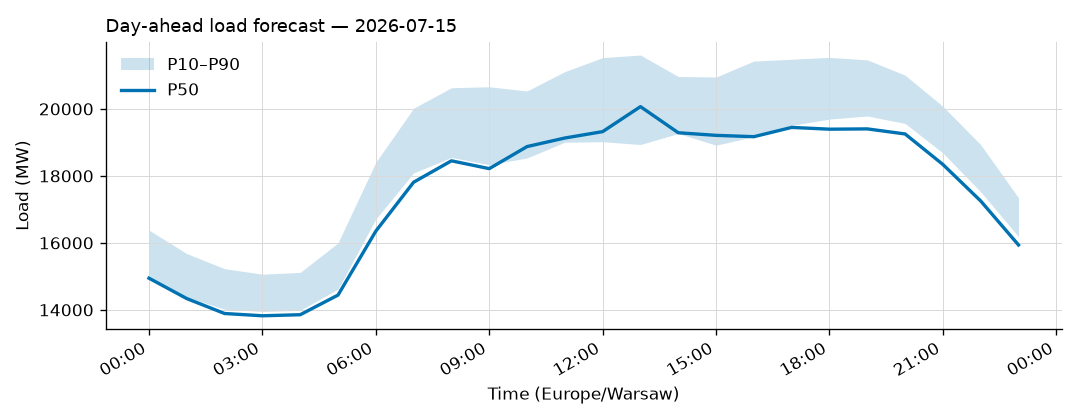
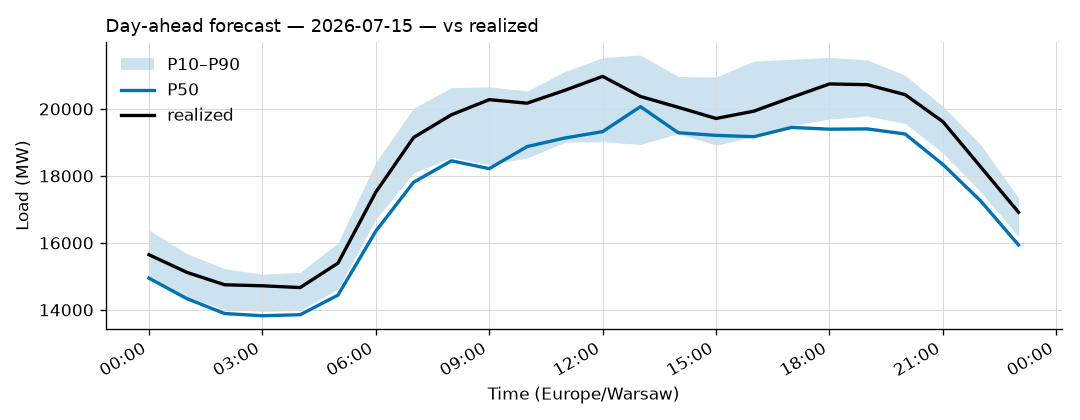
feat: living daily figures — every forecast chart gains the realized line next morning
- plot_forecast_band: optional realized overlay + unit param; one chart
  per TARGET day. Published band-only, re-rendered with actuals by the
  next morning's run — old reports' images update in place.
- load: yesterday's chart re-rendered with realized load; shown in
  today's report under the Yesterday table
- price: same convention (price_<date>.png), replaces the two-panel
- README: 'rolling is not recursive' clarification — independent
  day-ahead forecasts, moving average only, no error accumulation
- live-tested: full daily run, all three figures verified

diff --git a/src/viz/plots.py b/src/viz/plots.py
@@ -61,8 +61,19 @@ def plot_load_vs_tso(load: pd.Series, tso: pd.Series | None, out: Path) -> Path:
     return _finish(fig, out)
 
 
-def plot_forecast_band(forecast: pd.DataFrame, target_date: str, out: Path) -> Path:
-    """Fan chart: P50 line, P10–P90 band. Displayed in local time."""
+def plot_forecast_band(
+    forecast: pd.DataFrame,
+    target_date: str,
+    out: Path,
+    actual: pd.Series | None = None,
+    unit: str = "Load (MW)",
+) -> Path:
+    """Fan chart: P50 line, P10-P90 band. Displayed in local time.
+
+    Living figure: published with the band only; the morning after the
+    target day, the daily run re-renders it WITH the realized series so
+    every report's chart eventually shows forecast vs reality.
+    """
     apply_style()
     local = forecast.tz_convert(LOCAL_TZ)
     fig, ax = plt.subplots(figsize=(9, 3.5))
@@ -71,9 +82,14 @@ def plot_forecast_band(forecast: pd.DataFrame, target_date: str, out: Path) -> P
         color=BLUE, alpha=BAND_ALPHA, linewidth=0, label="P10–P90",
     )
     ax.plot(local.index, local["p50"], color=BLUE, label="P50")
-    ax.set_ylabel("Load (MW)")
+    title = f"Day-ahead forecast — {target_date}"
+    if actual is not None:
+        act = actual.tz_convert(LOCAL_TZ)
+        ax.plot(act.index, act.values, color="black", linewidth=2.0, label="realized")
+        title += " — vs realized"
+    ax.set_ylabel(unit)
     ax.set_xlabel(f"Time ({LOCAL_TZ})")
-    ax.set_title(f"Day-ahead load forecast — {target_date}", loc="left")
+    ax.set_title(title, loc="left")
     ax.xaxis.set_major_formatter(mdates.DateFormatter("%H:%M", tz=local.index.tz))
     ax.legend(frameon=False)
     return _finish(fig, out)
@@ -143,47 +159,4 @@ def plot_res_forecast(res: pd.DataFrame, out: Path) -> Path:
     ax.set_xlabel("Time (UTC)")
     ax.set_title("PL wind + solar day-ahead forecast (ENTSO-E 14.1.D)", loc="left")
     ax.legend(frameon=False)
-    return _finish(fig, out)
-
-
-def plot_price_daily(
-    fc_yesterday: pd.DataFrame | None,
-    realized: pd.Series,
-    fc_tomorrow: pd.DataFrame,
-    yesterday: str,
-    tomorrow: str,
-    out: Path,
-) -> Path:
-    """Daily price panel: yesterday's forecast vs REALIZED price + tomorrow.
-
-    Left: did yesterday's band contain reality? The next-day evaluation
-    every desk does first thing in the morning.
-    Right: tomorrow's published forecast.
-    """
-    apply_style()
-    fig, (ax1, ax2) = plt.subplots(1, 2, figsize=(10, 3.8), sharey=True)
-
-    if fc_yesterday is not None:
-        loc_y = fc_yesterday.tz_convert(LOCAL_TZ)
-        h = loc_y.index.hour + loc_y.index.minute / 60
-        ax1.fill_between(h, loc_y["p10"], loc_y["p90"], color=BLUE,
-                         alpha=BAND_ALPHA, linewidth=0, label="P10–P90")
-        ax1.plot(h, loc_y["p50"], color=BLUE, label="forecast P50")
-    real_loc = realized.tz_convert(LOCAL_TZ)
-    h_r = real_loc.index.hour + real_loc.index.minute / 60
-    ax1.plot(h_r, real_loc.values, color="black", linewidth=2.0, label="realized")
-    ax1.set_title(f"Yesterday {yesterday} — forecast vs realized", loc="left")
-    ax1.set_ylabel("Price (EUR/MWh)")
-    ax1.legend(frameon=False, fontsize=8)
-
-    loc_t = fc_tomorrow.tz_convert(LOCAL_TZ)
-    h_t = loc_t.index.hour + loc_t.index.minute / 60
-    ax2.fill_between(h_t, loc_t["p10"], loc_t["p90"], color=BLUE,
-                     alpha=BAND_ALPHA, linewidth=0)
-    ax2.plot(h_t, loc_t["p50"], color=BLUE)
-    ax2.set_title(f"Tomorrow {tomorrow} — LEAR forecast", loc="left")
-
-    for ax in (ax1, ax2):
-        ax.set_xticks(range(0, 24, 6))
-        ax.set_xlabel(f"Hour ({LOCAL_TZ})")
     return _finish(fig, out)

diff --git a/src/pipeline/price_daily.py b/src/pipeline/price_daily.py
@@ -68,7 +68,7 @@ def price_daily_step(
     the caller isolates it."""
     from src.ingestion.backfill import backfill_entsoe_prices, backfill_entsoe_res
     from src.pipeline.daily_run import shift_local_day
-    from src.viz.plots import plot_price_daily
+    from src.viz.plots import plot_forecast_band
 
     tz = cfg.timezone_local
     yesterday = shift_local_day(today_local, -1, tz)
@@ -129,29 +129,46 @@ def price_daily_step(
         cfg.paths["forecasts"] / f"price_{tomorrow.date()}.csv", float_format="%.2f"
     )
 
-    # 4. Plot: yesterday eval + tomorrow band, one figure.
-    fig_path = (
-        cfg.paths["reports_daily"].parent
-        / "figures" / "daily" / f"price_{tomorrow.date()}.png"
+    # 4. Living figures, one per TARGET day:
+    # tomorrow's chart = band only (published forecast);
+    # yesterday's chart = re-rendered WITH the realized price.
+    fig_dir = cfg.paths["reports_daily"].parent / "figures" / "daily"
+    plot_forecast_band(
+        fc, str(tomorrow.date()), fig_dir / f"price_{tomorrow.date()}.png",
+        unit="Price (EUR/MWh)",
     )
-    plot_price_daily(fc_y, realized, fc, str(yesterday.date()),
-                     str(tomorrow.date()), fig_path)
+    if fc_y is not None:
+        plot_forecast_band(
+            fc_y, str(yesterday.date()), fig_dir / f"price_{yesterday.date()}.png",
+            actual=realized, unit="Price (EUR/MWh)",
+        )
 
     local = fc.tz_convert(tz)
     peak = local["p50"].idxmax()
     lines = [
-        f"## Price ({tomorrow.date()}) — day-ahead forecast (LEAR, shadow)",
+        f"## Price — day-ahead (LEAR, shadow)",
         "",
-        "| Yesterday | MAE (EUR/MWh) |",
+        f"### Yesterday ({yesterday.date()}) — forecast vs realized",
+        "",
+        "| Model | MAE (EUR/MWh) |",
         "|---|---|",
         f"| LEAR | {scores.get('price_lear_mae', float('nan')):.2f} |",
         f"| naive-1d | {scores.get('price_naive_mae', float('nan')):.2f} |",
         "",
-        f"- Tomorrow's expected peak price: **{local['p50'].max():,.0f} EUR/MWh** "
+    ]
+    if fc_y is not None:
+        lines += [
+            f"![Price yesterday vs realized](../figures/daily/price_{yesterday.date()}.png)",
+            "",
+        ]
+    lines += [
+        f"### Tomorrow ({tomorrow.date()}) — the price forecast",
+        "",
+        f"- Expected peak price: **{local['p50'].max():,.0f} EUR/MWh** "
         f"around {peak.strftime('%H:%M')} local.",
         f"- P50 range: {local['p50'].min():,.0f} – {local['p50'].max():,.0f} EUR/MWh; "
         f"band at peak {local.loc[peak, 'p10']:,.0f} – {local.loc[peak, 'p90']:,.0f}.",
         "",
-        f"![Price: yesterday vs realized + tomorrow](../figures/daily/price_{tomorrow.date()}.png)",
+        f"![Price forecast tomorrow](../figures/daily/price_{tomorrow.date()}.png)",
     ]
     return scores, lines, oddities

diff --git a/src/pipeline/daily_run.py b/src/pipeline/daily_run.py
@@ -115,10 +115,18 @@ def run(cfg: Config, today_local: pd.Timestamp) -> str:
     # 4. Report, with the fan chart embedded.
     from src.viz.plots import plot_forecast_band
 
-    chart_path = (
-        cfg.paths["reports_daily"].parent / "figures" / "daily" / f"{tomorrow.date()}.png"
-    )
-    plot_forecast_band(fc, str(tomorrow.date()), chart_path)
+    fig_dir = cfg.paths["reports_daily"].parent / "figures" / "daily"
+    plot_forecast_band(fc, str(tomorrow.date()), fig_dir / f"{tomorrow.date()}.png")
+
+    # Living figure: yesterday's chart gets the realized load drawn on it
+    # now that yesterday is fully observed. Old reports update in place.
+    fc_y_path = cfg.paths["forecasts"] / f"{yesterday.date()}.csv"
+    if fc_y_path.exists():
+        fc_y = pd.read_csv(fc_y_path, index_col="time_utc", parse_dates=True)
+        plot_forecast_band(
+            fc_y, str(yesterday.date()), fig_dir / f"{yesterday.date()}.png",
+            actual=actual_y,
+        )
 
     oddities: list[str] = []
     n_missing = int(actual_y.isna().sum())

diff --git a/src/pipeline/report.py b/src/pipeline/report.py
@@ -47,6 +47,8 @@ def write_report(
         f"| Challenger (ridge+TSO, shadow) | {_fmt(scores.get('challenger_mape', float('nan')))} |",
         f"| TSO day-ahead | {_fmt(scores['tso_mape'])} |",
         "",
+        f"![Yesterday: forecast vs realized](../figures/daily/{yesterday}.png)",
+        "",
         f"## Tomorrow ({tomorrow}) — the forecast",
         "",
         f"- Expected peak: **{local['p50'].max():,.0f} MW** around "

diff --git a/reports/daily/2026-07-16.md b/reports/daily/2026-07-16.md
@@ -10,6 +10,8 @@ Model: seasonal naive — **BASELINE**, not the final model. P50 copies the same
 | Challenger (ridge+TSO, shadow) | n/a |
 | TSO day-ahead | 1.15% |
 
+![Yesterday: forecast vs realized](../figures/daily/2026-07-15.png)
+
 ## Tomorrow (2026-07-17) — the forecast
 
 - Expected peak: **20,460 MW** around 12:00 local time.
@@ -30,16 +32,20 @@ Model: seasonal naive — **BASELINE**, not the final model. P50 copies the same
 
 ![Day-ahead forecast fan chart](../figures/daily/2026-07-17.png)
 
-## Price (2026-07-17) — day-ahead forecast (LEAR, shadow)
+## Price — day-ahead (LEAR, shadow)
 
-| Yesterday | MAE (EUR/MWh) |
+### Yesterday (2026-07-15) — forecast vs realized
+
+| Model | MAE (EUR/MWh) |
 |---|---|
 | LEAR | nan |
 | naive-1d | nan |
 
-- Tomorrow's expected peak price: **207 EUR/MWh** around 20:00 local.
+### Tomorrow (2026-07-17) — the price forecast
+
+- Expected peak price: **207 EUR/MWh** around 20:00 local.
 - P50 range: 63 – 207 EUR/MWh; band at peak 166 – 284.
 
-![Price: yesterday vs realized + tomorrow](../figures/daily/price_2026-07-17.png)
+![Price forecast tomorrow](../figures/daily/price_2026-07-17.png)
 
 _Full hourly quantiles: see `data/forecasts/`._

diff --git a/reports/figures/backtests/README.md b/reports/figures/backtests/README.md
@@ -10,7 +10,16 @@ Color code everywhere: **blue = LightGBM** (champion), **orange = LEAR**
 
 ## 1. `price_bt_rolling_mae.png` — is the model drifting?
 
-30-day rolling MAE. A desk checks this weekly. What to look for:
+30-day rolling MAE. A desk checks this weekly.
+
+**"Rolling" is not "recursive".** Every forecast in the backtest is an
+independent day-ahead forecast fed only realized history — no model
+output is ever fed back, so no error accumulates. The rolling window is
+a plain moving AVERAGE over those independent daily errors. Raw daily
+MAE is too noisy to read (market volatility dominates); the 30-day mean
+exposes the only thing this chart is for: drift.
+
+What to look for:
 - Models hugging the bottom, gap to naive stable → skill holds across regimes.
 - Model line creeping toward naive → drift; retrain or investigate.
 
